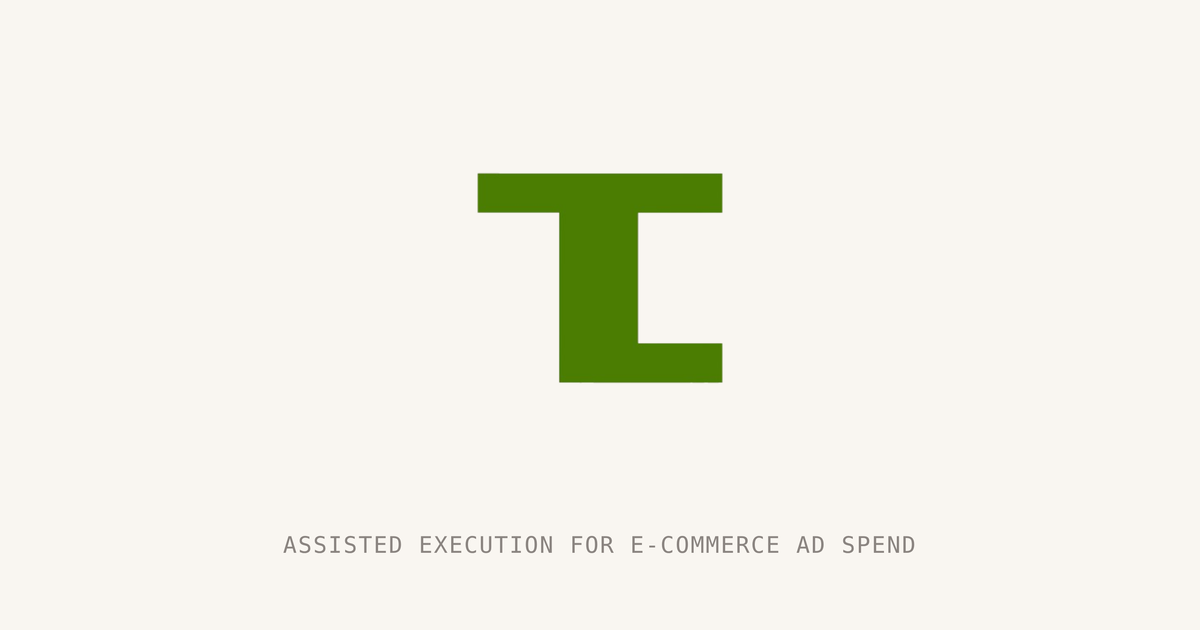
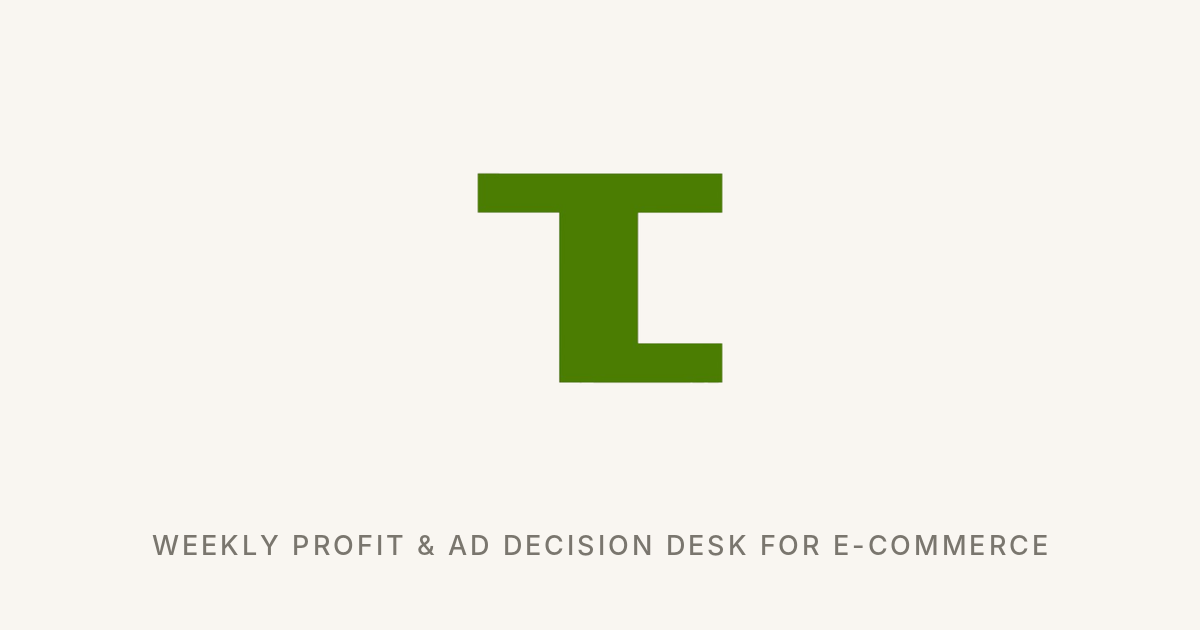
[S7] feat: desk privacy and terms, OG image, metadata sweep, dark muted contrast

Changed region(s): [[0.1233, 0.8444, 0.8942, 0.9048]]

diff --git a/site/src/data/articles.ts b/site/src/data/articles.ts
@@ -379,7 +379,7 @@ export const ARTICLES: Article[] = [
     slug: "ad-performance-tracking",
     title: "Ad Performance Tracking: A Simple Checklist for Meta and Google Ads",
     seoTitle: "Ad Performance Tracking: A Simple Checklist for Meta and Google Ads",
-    description: "How to track ad performance without drowning in reports. A short checklist for Meta (Facebook and Instagram) and Google Ads: what to export, what to record and what to compare.",
+    description: "How to track ad performance without drowning in reports. A short checklist for Meta and Google Ads: what to export, what to record and what to compare.",
     topic: "Analytics",
     keywords: ["ad performance tracking", "Meta ads reporting", "Facebook ads reporting", "Google Ads reporting", "e-commerce ad reporting"],
     published: "2026-11-01", modified: M, minutes: 7,

diff --git a/site/public/video.html b/site/public/video.html
@@ -3,7 +3,8 @@
 <head>
     <meta charset="UTF-8">
     <meta name="viewport" content="width=device-width, initial-scale=1.0">
-    <title>7Captur — Video Demo</title>
+    <meta name="robots" content="noindex">
+    <title>7Captur | Video</title>
     <style>
         * {
             margin: 0;

diff --git a/site/public/assets/css/site.css b/site/public/assets/css/site.css
@@ -37,7 +37,7 @@ html.dark {
   --line-strong: rgba(255,255,255,.15);
   --ink:         #f1ede4;
   --body:        #aaa49b;
-  --muted:       #858078;
+  --muted:       #938e85;
   --accent:      #8fce3a;
   --accent-fill: #8fce3a;
   --on-accent:   #0e1206;

diff --git a/AGENT_HANDOFF.md b/AGENT_HANDOFF.md
@@ -1,7 +1,7 @@
 # AGENT_HANDOFF: `7captur-site` (`7captur.com`)
 
 ## Active Status
-- **Current State:** `IDLE`: Ready for Milestone `S7`
+- **Current State:** `IDLE`: All milestones done. Remaining work is the owner checklist in the S7 entry
 - **Target Blueprint:** "7Captur Site Blueprint (7captur.com)", held in the claude.ai Project. It is deliberately not committed: this repository is public and the blueprint contains internal operating figures.
 - **Branch Policy:** Commit directly to `main` (1 cohesive milestone per commit, build must pass). Every push deploys to the live site.
 - **Theme Rule:** Preserve Dark/Light mode and lime green accent. Visual style is an editorial financial memo.
@@ -43,7 +43,7 @@
 | **S5** | `DONE` | Pricing, Security and About pages |
 | **S1R** | `DONE` | Restoration: original multipage design, fonts, nav and footer back; desk skin removed; homepage split into separate routes; content kept from the Site Blueprint |
 | **S6** | `DONE` | Resources pruning (remove self-serve, social-seller, reseller, local-service and DM/WhatsApp articles), article CTA refresh to `/audit/`, fix article links to `/product/` and old persona copy, rework `/contact/`, rewrite `public/llms.txt`, legacy redirects (`/signup`, `/trial`, `/get-started`, `/demo`) |
-| **S7** | `TODO` | Metadata, privacy and terms copy (still describe the old self-serve product), sitemap/robots, contrast, mobile, link integrity, banned-copy sweep. Check every page in a real browser at 1280, 768 and 360 px in light and dark. S1R was verified by build, tests and HTML inspection only, with no browser screenshots |
+| **S7** | `DONE` | Privacy and terms rewritten for the audit and flat-fee desk, OG default image, metadata and sitemap sweep, dark-mode muted text contrast, banned-copy sweep. Browser QA at 1280, 768 and 360 px still recommended after deploy |
 
 ---
 
@@ -123,3 +123,9 @@
 - **Retired guides** redirect to `/resources/`: track sales from social posts, cost per enquiry, likes vs sales, WhatsApp and DM sales, first $500 on Meta vs Google. `/signup`, `/trial`, `/get-started`, `/demo` go to `/audit/`.
 - **Verification:** `tsc` pass, `npm test` 10 pass, build pass. Link check on built HTML: 0 broken links or anchors. Chromium: contact and article pages at 1280, 768, 360 px light and dark with no overflow or errors; contact form validation, payload and failure path tested with Formspree mocked; four redirects followed.
 - **Next:** S7. Privacy, terms, `og-default.png` and `video.html` still carry old copy or metadata.
+
+### S7: Legal copy, metadata, contrast, final sweep
+- **Agent / Date (UTC):** Claude / 2026-11-28
+- **Files:** `pages/privacy-policy/index.astro` and `pages/terms-of-service/index.astro` rewritten on `PageHead` (no OAuth, no Google user data section, no Paddle, no trial, no app accounts; covers audit form, exports, COGS sheets, invited portal, Formspree, Firebase, 48-hour deletion on request, flat fees from `PRICING`). `public/assets/og/og-default.png` tagline now "Weekly profit & ad decision desk for e-commerce". `public/video.html` set to noindex, em dash removed from its title (it is the outreach video player, left in place). `data/articles.ts` one description shortened. `site.css` dark `--muted` raised from `#858078` to `#938e85` (was 4.25:1 on cards, now 5.1:1).
+- **Checks:** `tsc` pass, `npm test` 10 pass, build 20 pages. Built HTML: no banned copy (the only "free trial" hit is the audit page sentence saying it is not one), no em dashes, every real page has a title, description and canonical, sitemap lists the 18 real pages and no redirects.
+- **Owner checklist before calling it launched:** (1) have a lawyer read the privacy and terms pages, they were written from the blueprint and security page, not legal advice, and the terms leave payment due dates and cancellation notice length to the invoice or order, so decide those; (2) confirm `privacy@7captur.com` was replaced by `daniel@7captur.com` on purpose (privacy page now uses the founder email); (3) fill `schedulingUrl`, founder photo, bio, LinkedIn and walkthrough video in `siteConfig.ts`; (4) confirm Formspree notifications arrive; (5) look at the live site in a browser, light and dark, 1280, 768 and 360 px.
